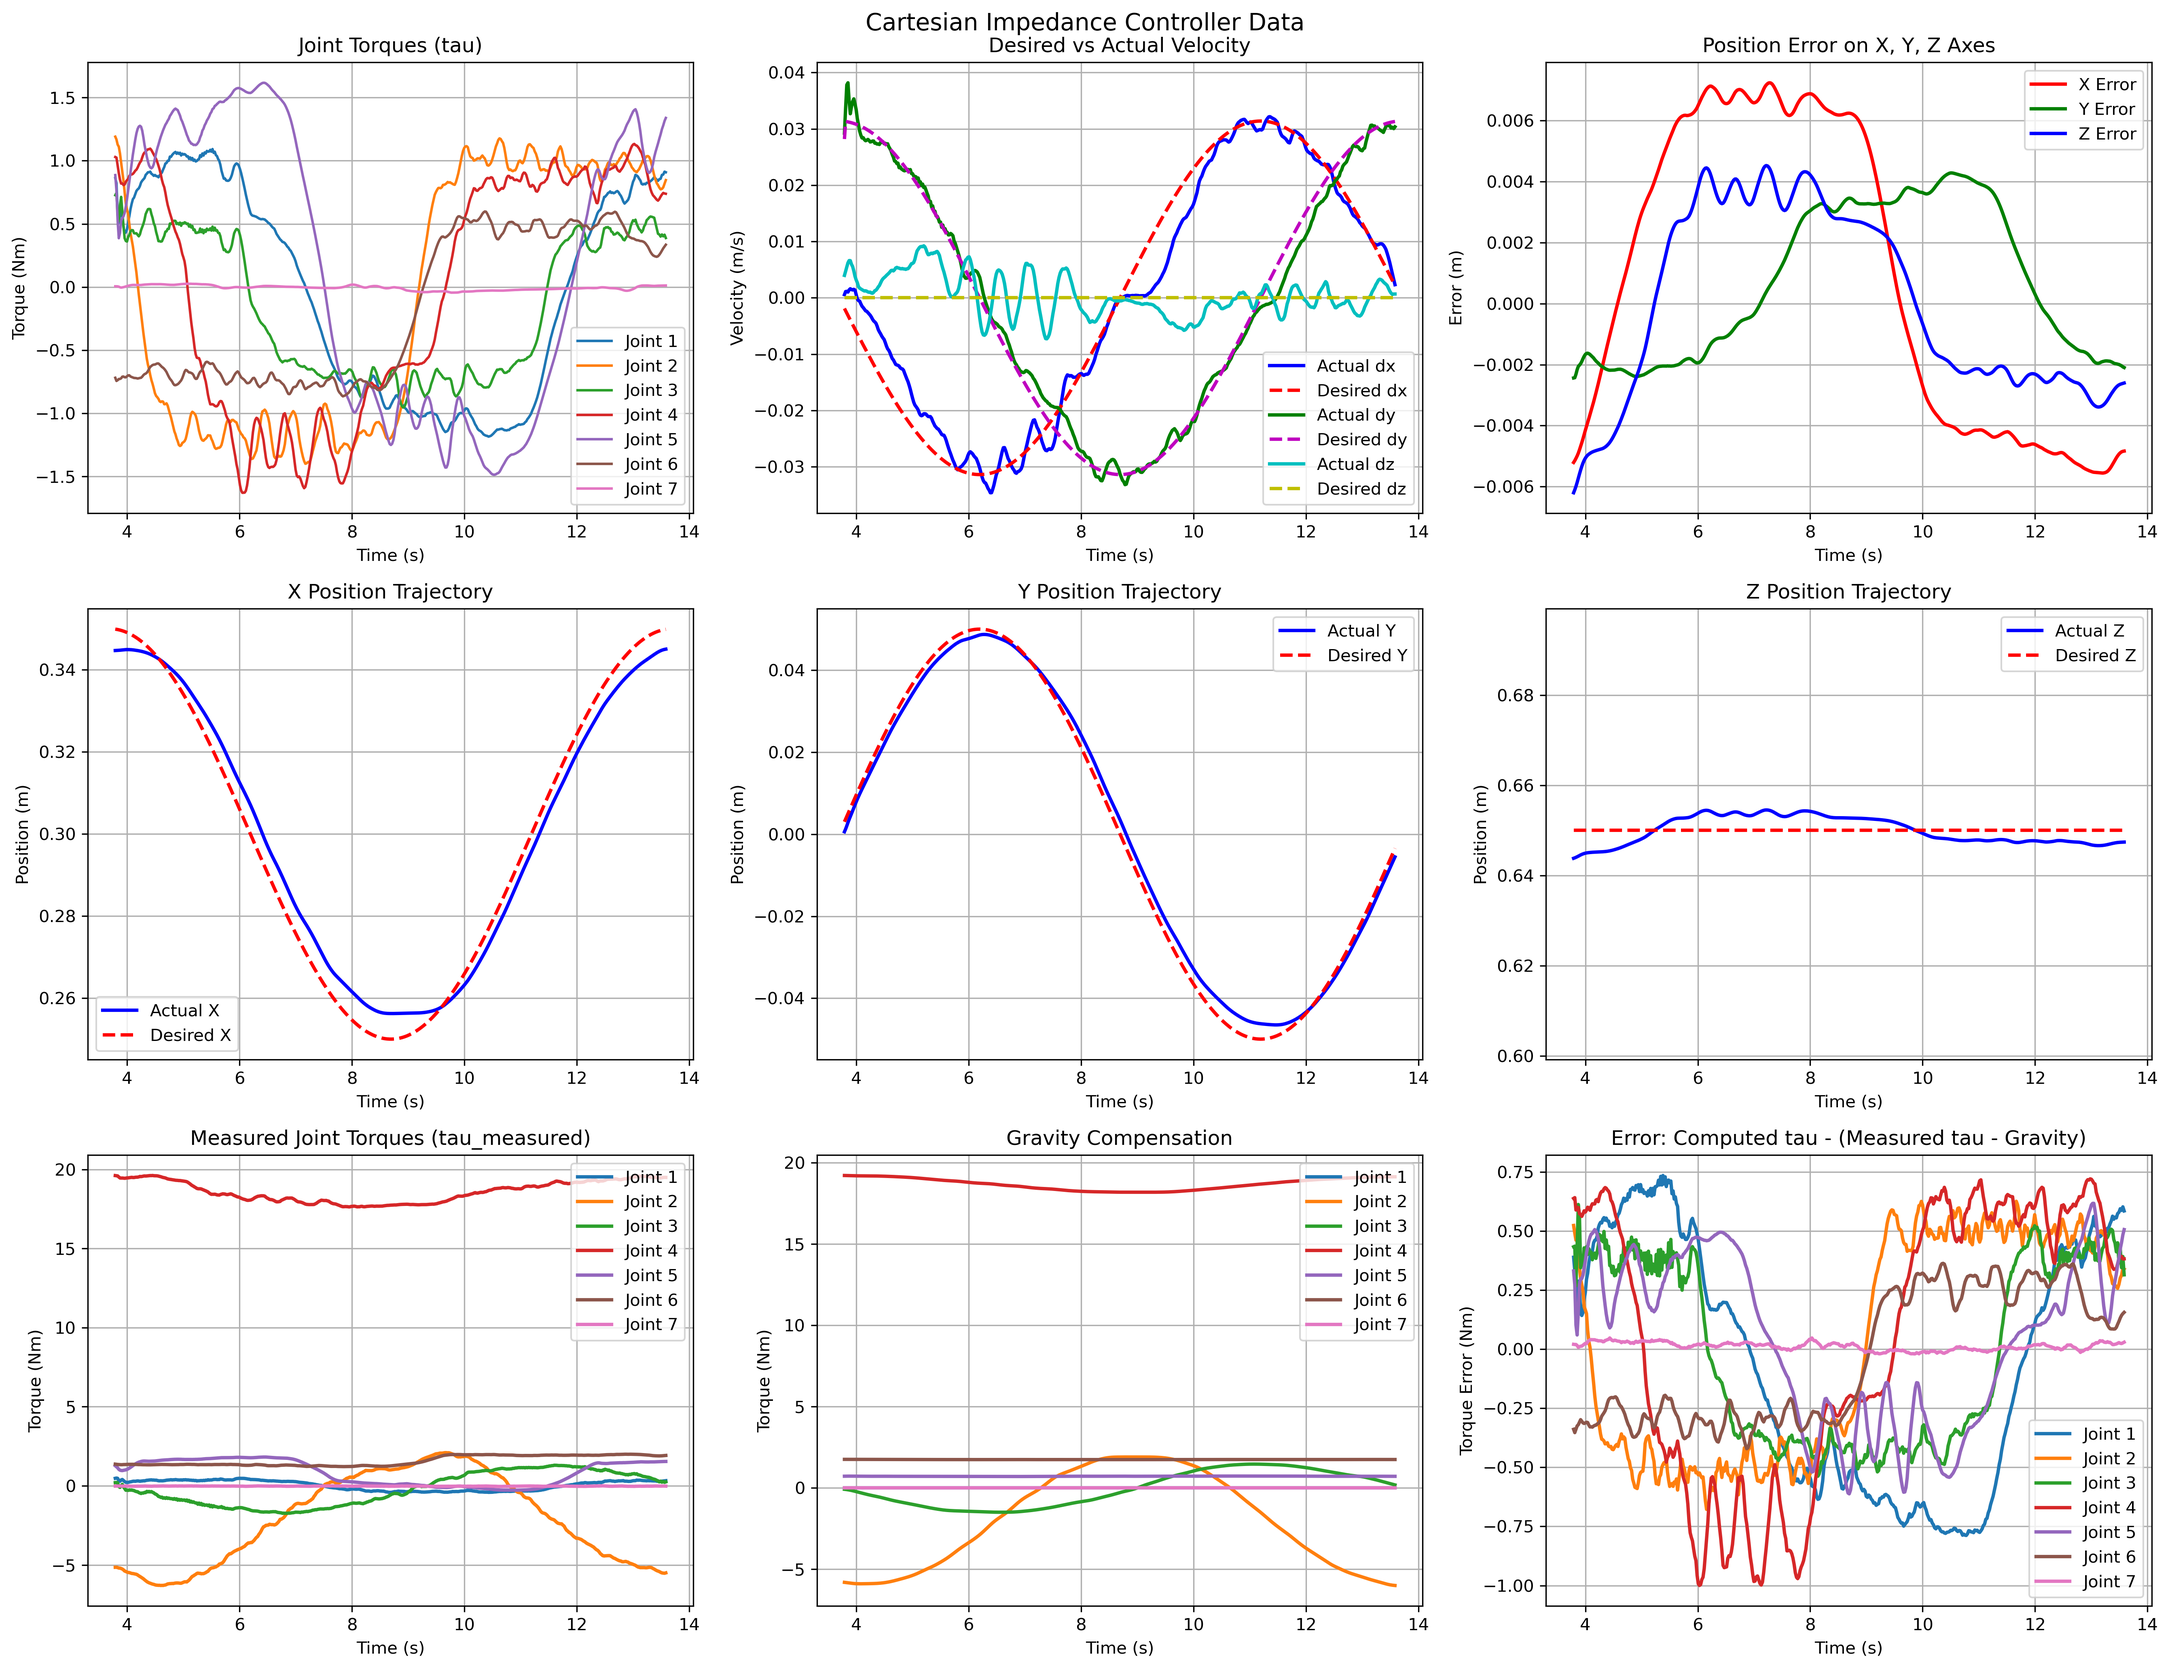
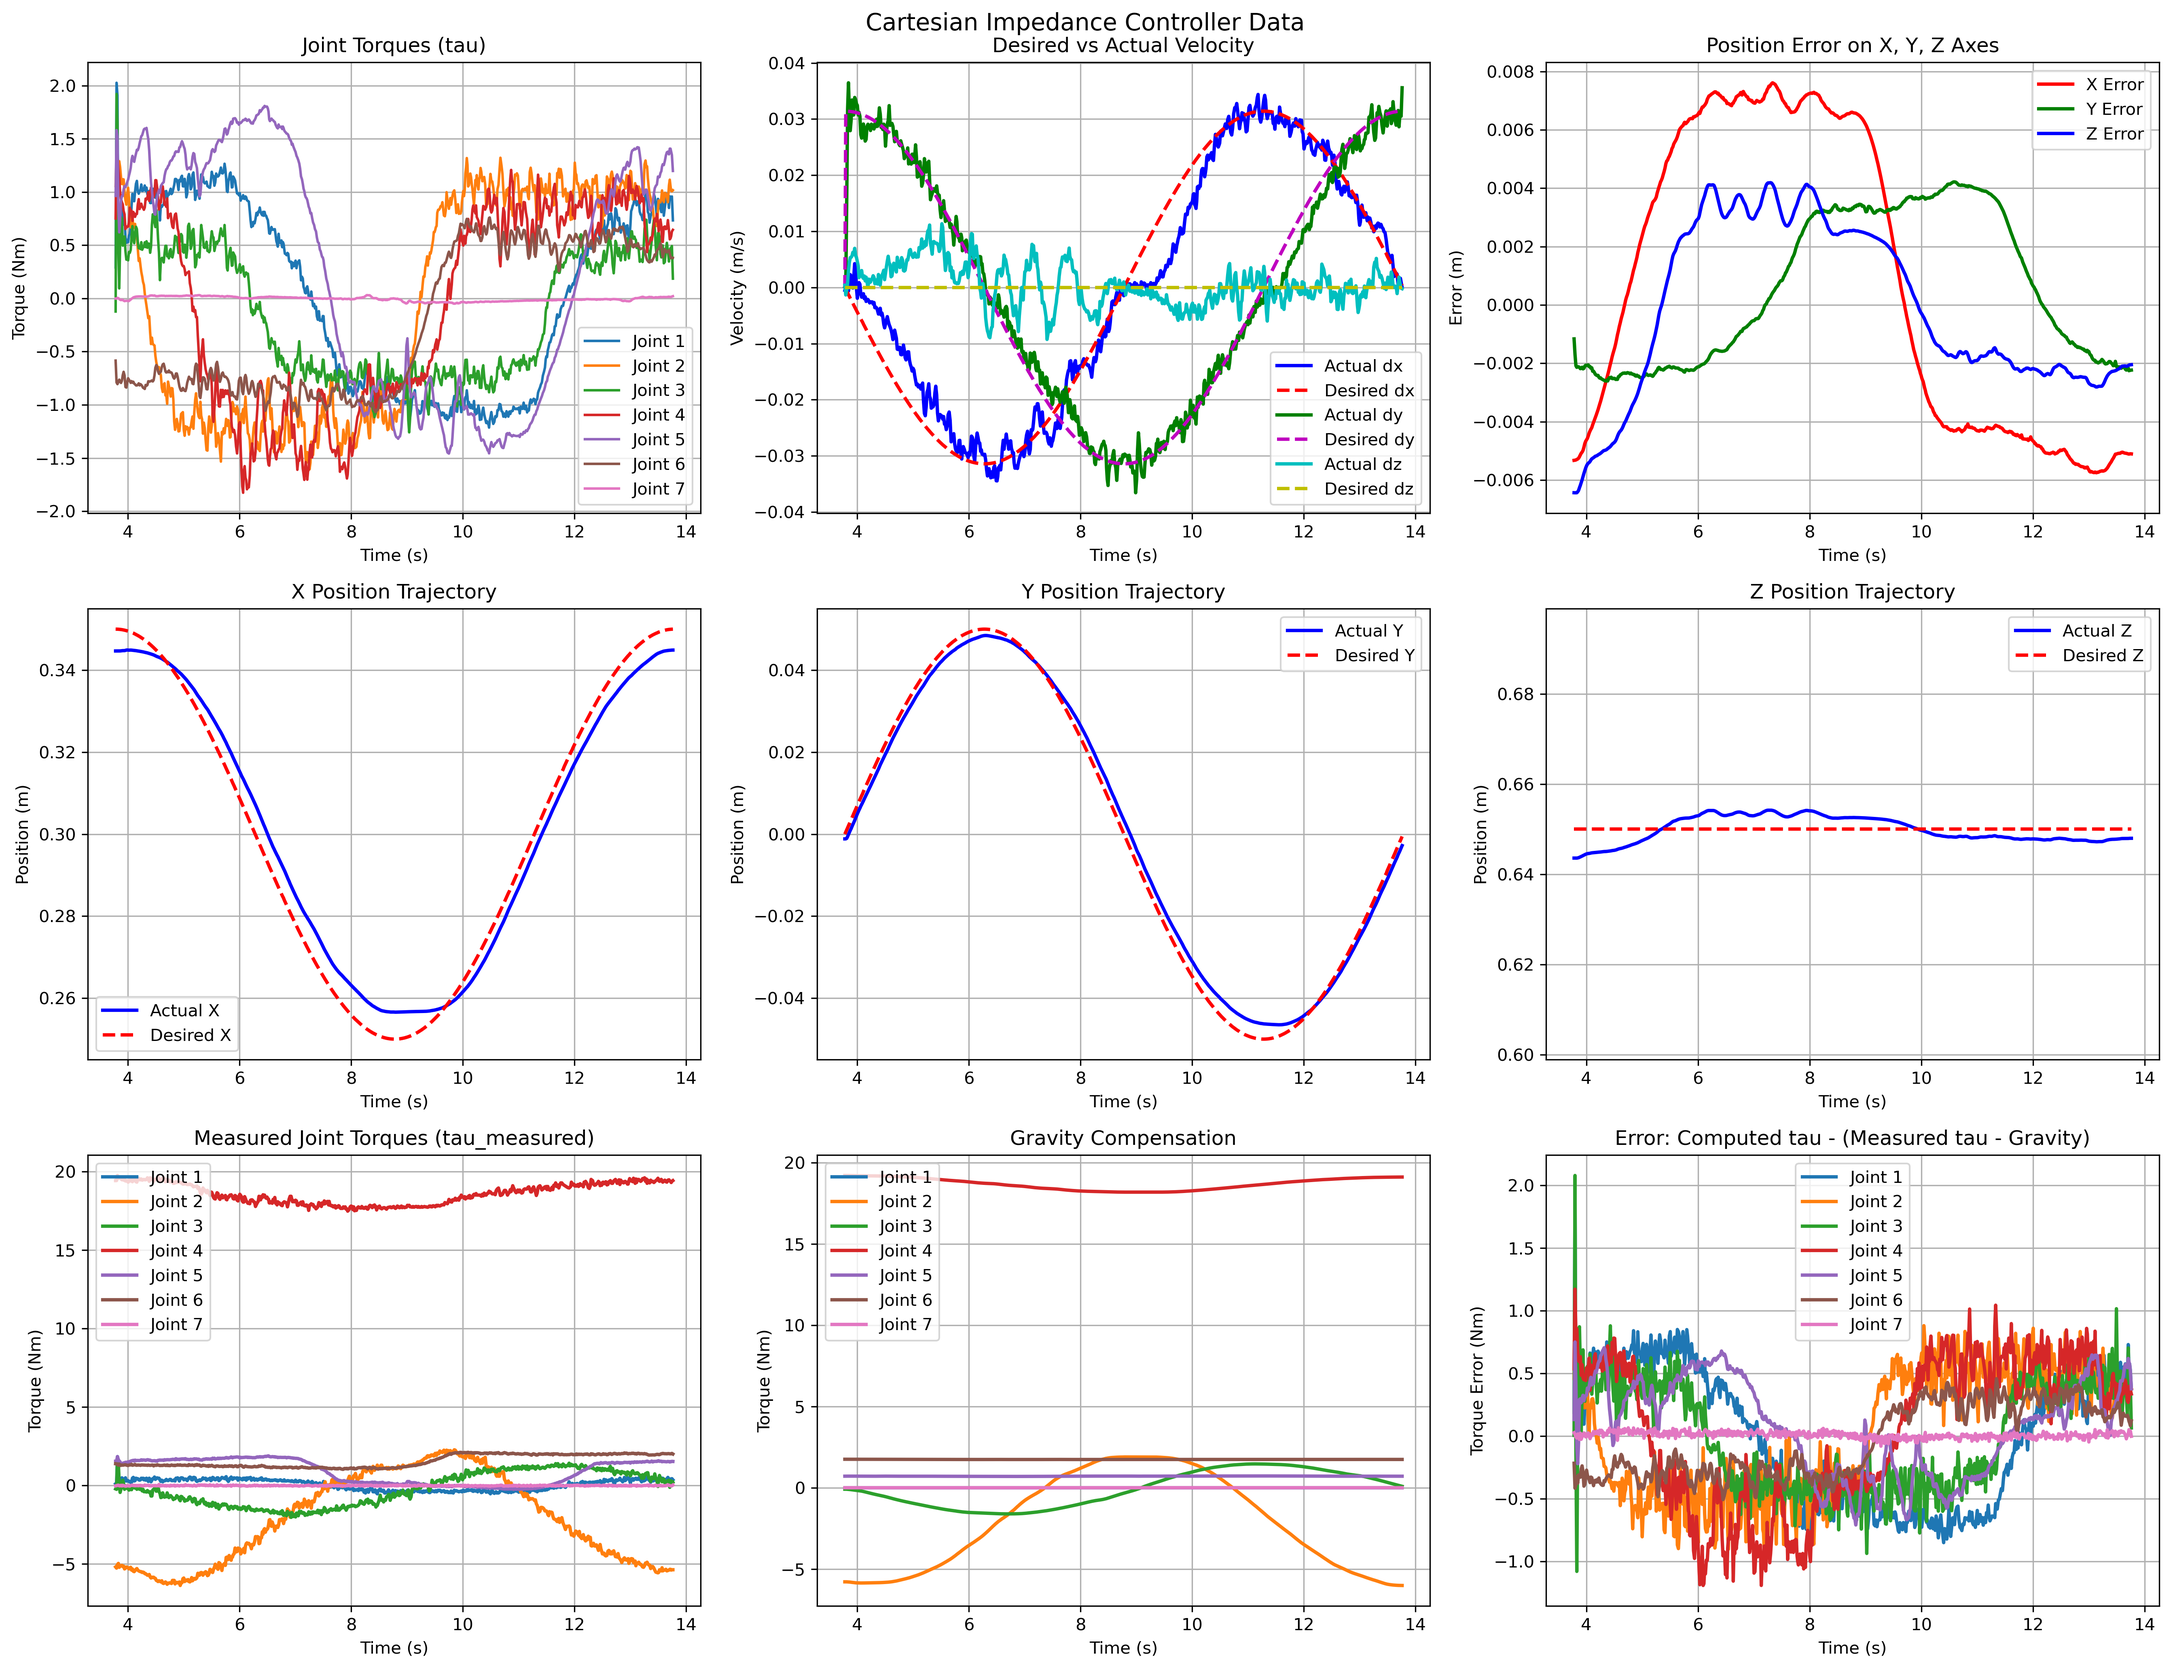
before cloud gp input change

diff --git a/new_structure/py_controllers/py_controllers/cartesian_impedance.py b/new_structure/py_controllers/py_controllers/cartesian_impedance.py
@@ -201,7 +201,7 @@ class CartesianImpedanceController(Node):
             '/future_task_space'
         )
         self.future_delay = self.declare_parameter(
-            'future_delay', 0.03  # 默认 60 ms
+            'future_delay', 0 # 默认 60 ms
         ).value
 
         # 存最新一次未来轨迹
@@ -421,7 +421,7 @@ class CartesianImpedanceController(Node):
             # === 计算残差 ===
             tau_residual = tau_measured - tau - gravity_measured
             self.tau_residual_filtered = (
-                0.02 * tau_residual + 0.98 * self.tau_residual_filtered
+                0.05 * tau_residual + 0.95 * self.tau_residual_filtered
             )
             # print("tau_residual:", tau_residual)
 
@@ -454,8 +454,11 @@ class CartesianImpedanceController(Node):
                     self._future_traj_warned = True
 
             # === 控制循环的最后：按节拍触发一次“GP 更新”（本地 + 云端） ===
+            # print("active:",self.gp_active)
+            # print("use:",self.use_gp)
             if self.gp_active and self.use_gp:
                 self.gp_counter += 1
+                print("gp counter:",self.gp_counter)
                 if self.gp_counter % self.gp_stride == 0:
                     # 1) 本地 GP 立刻算一次（同步）
                     self.y_hat_local = self._gp_predict_and_update(
@@ -464,10 +467,11 @@ class CartesianImpedanceController(Node):
                         self.ddq_des_joint,
                         self.tau_residual_filtered,
                     )   
-
+                    # print(self.gp_counter)
                 # 2) 云端 GP：发异步请求（同一时刻的 q/dq/ddq/残差）
                 # === CLOUD GP 调用 ===
                 if self.gp_client.service_is_ready():
+                    self.gp_counter = 0
                     req = AsyncGPpredict.Request()
 
                     # ---- 当前输入 ----
@@ -481,30 +485,59 @@ class CartesianImpedanceController(Node):
                     #   永远可计算 —— 保证 cloud GP 每次都能收到预测输入
                     # ============================================================
 
-                    delay = float(self.future_delay)
+                    # delay = float(self.future_delay)
 
-                    q_now  = self.q
-                    dq_now = dq
-                    ddq_now = self.ddq_des_joint
+                    # q_now  = self.q
+                    # dq_now = dq
+                    # ddq_now = self.ddq_des_joint
 
-                    # ---- 常加速度未来预测 ----
-                    q_future  = q_now + dq_now * delay + 0.5 * ddq_now * delay**2
-                    dq_future = dq_now + ddq_now * delay
+                    # # ---- 常加速度未来预测 ----
+                    # q_future  = q_now + dq_now * delay + 0.5 * ddq_now * delay**2
+                    # dq_future = dq_now + ddq_now * delay
+                    # ============================================================
+                    #   CLOUD GP：使用异步请求得到的未来任务空间轨迹
+                    # ============================================================
 
-                    # ---- cloud GP 特征输入 ----
+                    if self._latest_future_traj is not None:
+
+                        # 1) 取未来任务空间期望
+                        dx_f  = self._latest_future_traj["dx_des"]
+                        ddx_f = self._latest_future_traj["ddx_des"]
+
+                        # 只用前 5 维（你的控制任务）
+                        dx_f_5  = dx_f[:5]
+                        ddx_f_5 = ddx_f[:5]
+
+                        # 2) 用当前 Jacobian 映射到 joint space
+                        dq_future  = jacobian_pinv @ dx_f_5
+                        ddq_future = jacobian_pinv @ (ddx_f_5 - djacobian @ dq)
+
+                    else:
+                        # ❗ fallback：没有 future traj 时，直接置零 or 用当前 dq
+                        dq_future  = dq.copy()
+                        ddq_future = np.zeros_like(dq)
+
+
+                    # req = AsyncGPpredict.Request()
+
+                    # ---- 当前状态 ----
+                    # req.q = self.q.astype(np.float32).tolist()
+                    # req.dq_des_joint = dq.astype(np.float32).tolist()
+                    # req.ddq_des_joint = self.ddq_des_joint.astype(np.float32).tolist()
+                    # req.tau_residual = self.tau_residual_filtered.astype(np.float32).tolist()
+
+                    # ---- 未来状态（来自轨迹）----
                     req.dq_des_joint_future  = dq_future.astype(np.float32).tolist()
-                    req.ddq_des_joint_future = ddq_now.astype(np.float32).tolist()
+                    req.ddq_des_joint_future = ddq_future.astype(np.float32).tolist()
 
-                    # ---- 不使用未来采样 ----
+                    # ---- 不使用采样 ----
                     req.n_future_samples = 0
                     req.dq_future_samples_flat = []
                     req.ddq_future_samples_flat = []
 
-                    # ============================================================
-                    #   发送异步 cloud GP 请求
-                    # ============================================================
                     future = self.gp_client.call_async(req)
                     future.add_done_callback(self._gp_response_callback)
+
 
             # publish on topic /effort_command
             self.effort_msg.efforts = tau.tolist()

diff --git a/new_structure/py_controllers/py_controllers/gp_server.py b/new_structure/py_controllers/py_controllers/gp_server.py
@@ -55,6 +55,7 @@ class GPServer(Node):
             # -----------------------
             # 未来主状态
             # -----------------------
+            # q_f = np.array(request.q_future, dtype=np.float32)
             dq_f  = np.array(request.dq_des_joint_future, dtype=np.float32)
             ddq_f = np.array(request.ddq_des_joint_future, dtype=np.float32)
 
@@ -72,7 +73,7 @@ class GPServer(Node):
             # =====================================================
             # 1) 当前 cloud GP + memory
             # =====================================================
-            y_gp_cur, y_mem_cur, mem_dist_cur = \
+            y_gp_cur, y_mem_cur, mem_dist_cur  = \
                 self._gp_predict_vector(q, dq, ddq, tau, update=True)
 
             # =====================================================
@@ -101,7 +102,7 @@ class GPServer(Node):
             # 返回（不融合）
             # =====================================================
             response.y_local = y_gp_cur.tolist()
-            response.y_cloud = y_gp_fut.tolist()
+            response.y_cloud = y_gp_cur.tolist()
             response.y_mem   = y_mem_cur.tolist()
             response.mem_dist = float(mem_dist_cur)
 

diff --git a/new_structure/py_controllers/py_controllers/trajectory_publisher.py b/new_structure/py_controllers/py_controllers/trajectory_publisher.py
@@ -24,7 +24,7 @@ class TrajectoryPublisher(Node):
         self.data_recording_publisher = self.create_publisher(
             Bool, '/data_recording_enabled', 10)
         
-        self.timer = self.create_timer(0.0005, self.timer_callback)  # publish at 1000 Hz
+        self.timer = self.create_timer(0.001, self.timer_callback)  # publish at 1000 Hz
 
         # subscribe to /state_parameter to get robot current state
         self.state_subscription = self.create_subscription(

diff --git a/new_structure/plot_data/plot_data/plot_data.py b/new_structure/plot_data/plot_data/plot_data.py
@@ -29,7 +29,7 @@ def plot_data_from_csv(csv_filename):
         # 子采样率（越大 → 点越少）
         DECIMATE = 5     # 每5个取一个点  (1000Hz → 200Hz)
         # 平滑窗口大小
-        SMOOTH_WINDOW = 10  # 相当于 ~50ms 平滑
+        SMOOTH_WINDOW = 1  # 相当于 ~50ms 平滑
 
         # Step 1: 子采样
         df = df.iloc[::DECIMATE, :].reset_index(drop=True)
